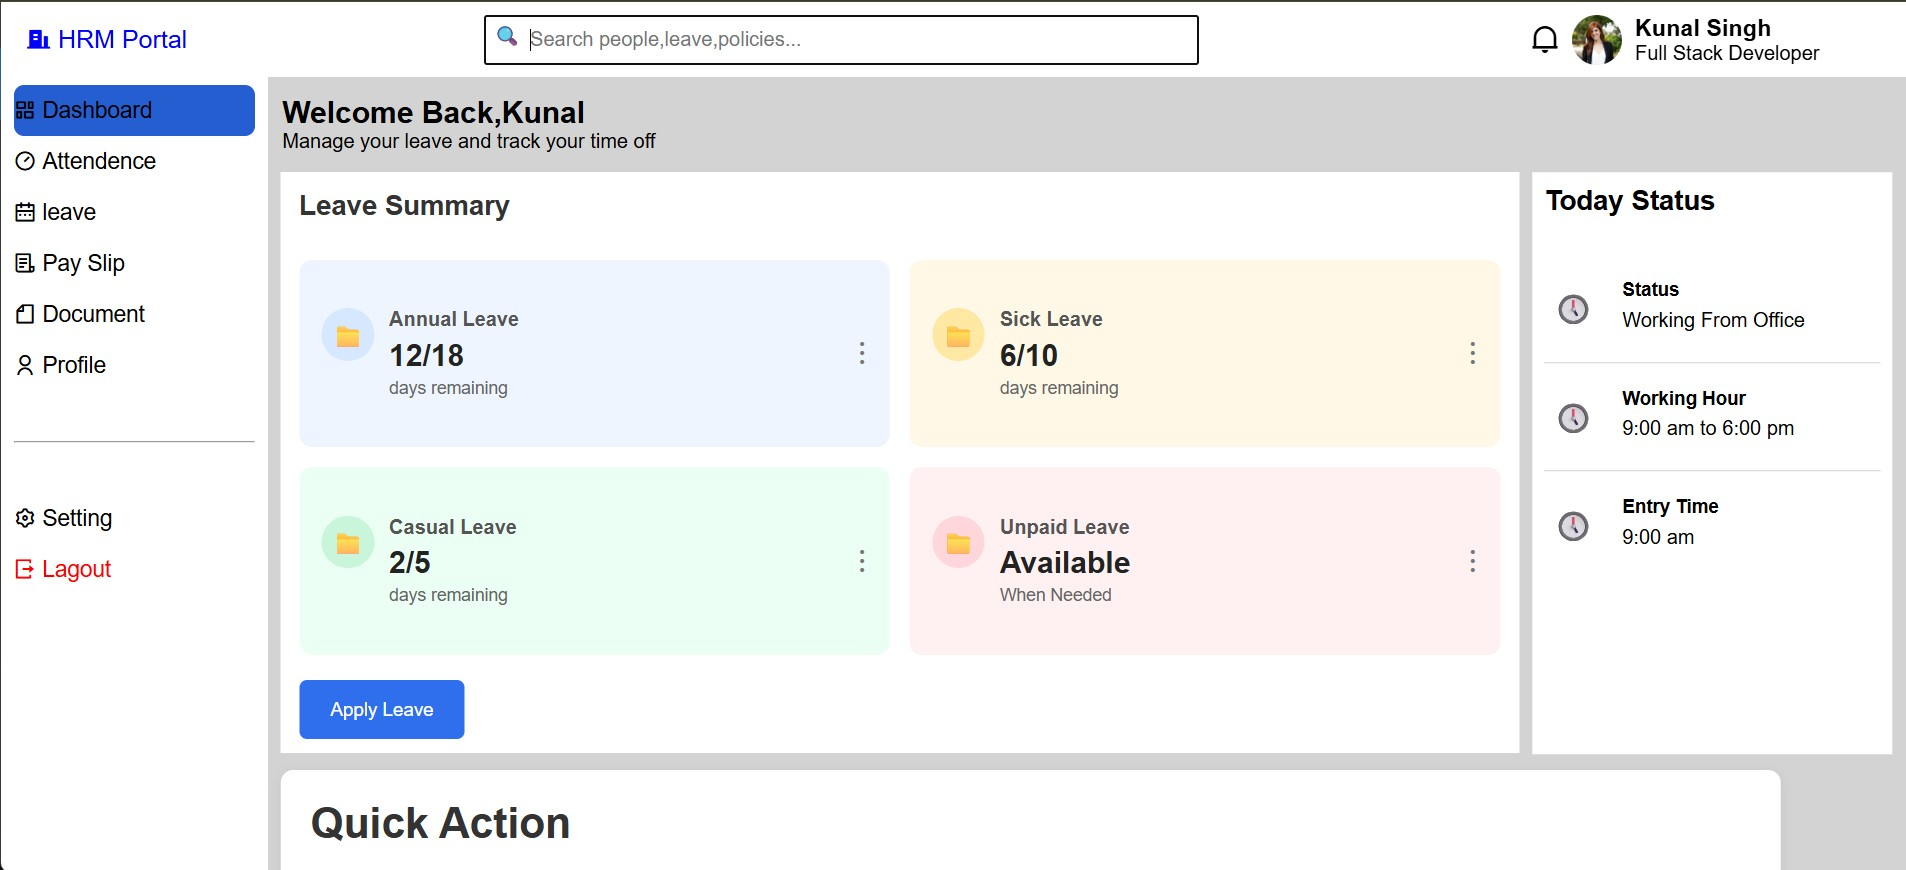
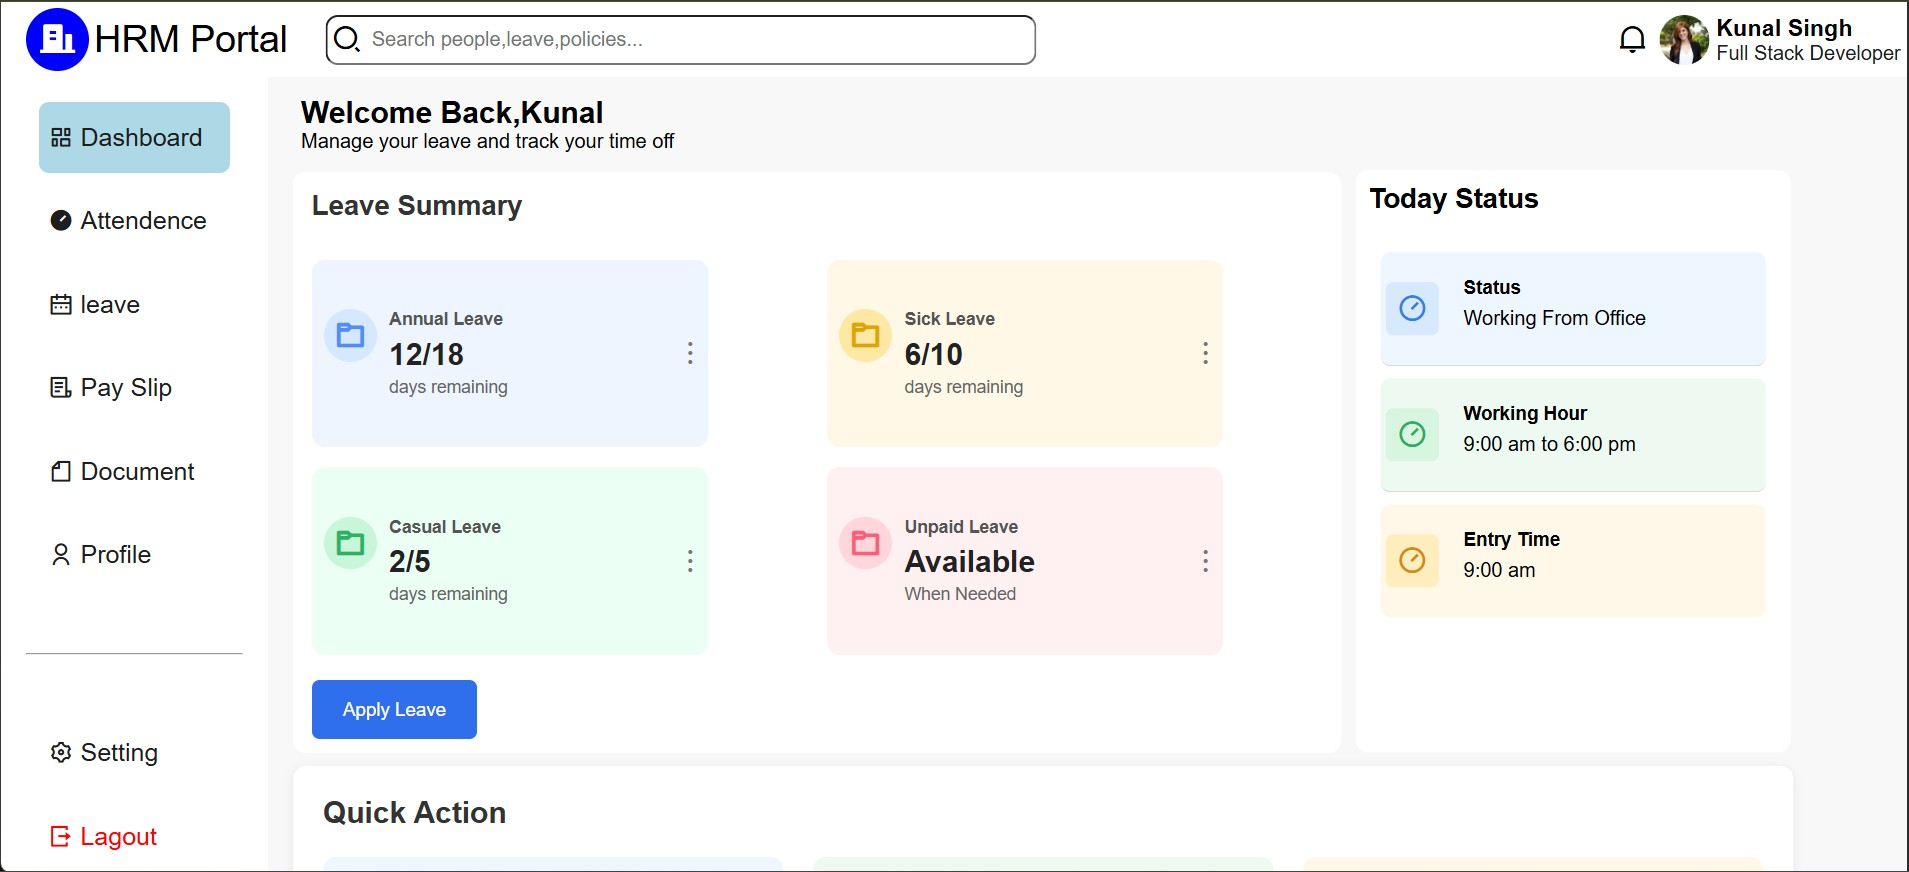
portal

diff --git a/day 9/style.css b/day 9/style.css
@@ -7,7 +7,7 @@
 body {
   width: 100%;
   height: 100vh;
-  background-color: lightgray;
+  background-color: rgb(248, 248, 248);
 }
 main {
   display: flex;
@@ -23,9 +23,10 @@ main {
 }
 .Portal i{
   color: white;
-  font-size: 40px;
+  font-size: 30px;
   background-color: blue;
   border-radius: 50px;
+  padding: 10px;
 }
 .Portal span{
   font-size: 30px;
@@ -34,6 +35,9 @@ main {
   color: red;
   font-size: 20px;
   transition: 0.3s;
+  border-radius: 8px;
+  margin: 10px;
+  padding: 8px;
 }
 .Lagout:hover{
   transform: scale(1.1);
@@ -82,6 +86,9 @@ nav {
 .nav-Profile-image div{
   transform: translate(65px,0px);
 }
+.nav-Profile-image div p{
+  color: rgb(30, 30, 30);
+}
 .ri-notification-2-line {
   font-size: 24px;
   transform: translate(70px,0px);
@@ -90,17 +97,22 @@ nav {
   font-size: 20px;
   transition: 0.3s;
   overflow: hidden;
+  color:rgb(30, 30, 30);
+  margin: 10px;
+  padding: 8px;
 }
 .portal-menu:hover{
   transform: scale(1.1);
   background-color: lightblue;
+  border-radius: 8px;
 }
 .portal-menu:first-child {
   background-color: lightblue;
+  border-radius: 8px;
 }
 .paragraph {
   padding: 15px;
-  transform: translate(210px, 0px);
+  transform: translate(225px, 0px);
   display: inline-block;
 }
 .right-box {
@@ -152,13 +164,12 @@ nav {
   display: flex;
   align-items: center;
   justify-content: center;
-  font-size: 18px;
   font-weight: bold;
-  font-size: 25 px;
+  font-size: 25px;
 }
 
 .leave-info h4 {
-  font-size: 16px;
+  font-size: 14px;
   color: #555;
   margin-bottom: 6px;
 }
@@ -184,7 +195,7 @@ nav {
   background: #eef5ff;
 }
 
-.annual .icon {
+.annual .ri-folder-6-line {
   background: #d6e8ff;
   color: #4d8dff;
 }
@@ -193,7 +204,7 @@ nav {
   background: #fff8e7;
 }
 
-.sick .icon {
+.sick .ri-folder-6-line {
   background: #ffe8a3;
   color: #e0a400;
 }
@@ -202,7 +213,7 @@ nav {
   background: #ecfff4;
 }
 
-.casual .icon {
+.casual .ri-folder-6-line {
   background: #c9f5db;
   color: #28b463;
 }
@@ -211,7 +222,7 @@ nav {
   background: #fff0f2;
 }
 
-.unpaid .icon {
+.unpaid .ri-folder-6-line {
   background: #ffd6dc;
   color: #ff5c77;
 }
@@ -254,6 +265,34 @@ nav {
   gap: 16px;
   padding: 20px 0;
   border-bottom: 1px solid lightgray;
+  margin: 10px;
+  border-radius: 8px;
+}
+.blue-card {
+  background: #eef6ff;
+}
+
+.blue-card .ri-timer-2-line {
+  background: #d6e9ff;
+  color: #2f80ed;
+}
+
+.green-card {
+  background: #edf9f1;
+}
+
+.green-card .ri-timer-2-line {
+  background: #d7f5df;
+  color: #27ae60;
+}
+
+.yellow-card {
+  background: #fff8e8;
+}
+
+.yellow-card .ri-timer-2-line {
+  background: #ffeebd;
+  color: #d68910;
 }
 .status-item:last-child {
   border-bottom: none;
@@ -266,6 +305,8 @@ nav {
   align-items: center;
   justify-content: center;
   font-size: 25px;
+  background-color: lightgreen;
+  margin: 4px;
 }
 .status-content h4 {
   font-size: 15px;
@@ -308,7 +349,7 @@ nav {
   min-height: 95px;
 }
 
-.ri-file-2-line {
+.ri-file-2-line,.ri-calendar-event-line {
   width: 46px;
   height: 46px;
   border-radius: 8px;
@@ -334,7 +375,7 @@ nav {
   background: #eef6ff;
 }
 
-.blue-card .icon-box {
+.blue-card .ri-calendar-event-line {
   background: #d6e9ff;
   color: #2f80ed;
 }
@@ -343,7 +384,7 @@ nav {
   background: #edf9f1;
 }
 
-.green-card .icon-box {
+.green-card .ri-file-2-line {
   background: #d7f5df;
   color: #27ae60;
 }
@@ -352,7 +393,7 @@ nav {
   background: #fff8e8;
 }
 
-.yellow-card .icon-box {
+.yellow-card .ri-file-2-line {
   background: #ffeebd;
   color: #d68910;
 }

diff --git a/day 9/index.html b/day 9/index.html
@@ -126,21 +126,21 @@
         <button class="btn">Apply Leave</button>
         <div class="today-status">
           <h2 class="today-title">Today Status</h2>
-          <div class="status-item">
+          <div class="status-item blue-card">
             <i class="ri-timer-2-line"></i>
             <div class="status-content">
               <h4>Status</h4>
               <p>Working From Office</p>
             </div>
           </div>
-          <div class="status-item">
+          <div class="status-item green-card">
             <i class="ri-timer-2-line"></i>
             <div class="status-content">
               <h4>Working Hour</h4>
               <p>9:00 am to 6:00 pm</p>
             </div>
           </div>
-          <div class="status-item">
+          <div class="status-item yellow-card">
             <i class="ri-timer-2-line"></i>
             <div class="status-content">
               <h4>Entry Time</h4>
@@ -153,7 +153,7 @@
 
           <div class="action-grid">
             <div class="action-card blue-card">
-              <div class="icon-box">📅</div>
+             <i class="ri-calendar-event-line"></i>
               <div class="card-content">
                 <h3>Apply Leave</h3>
                 <p>Request time off</p>
